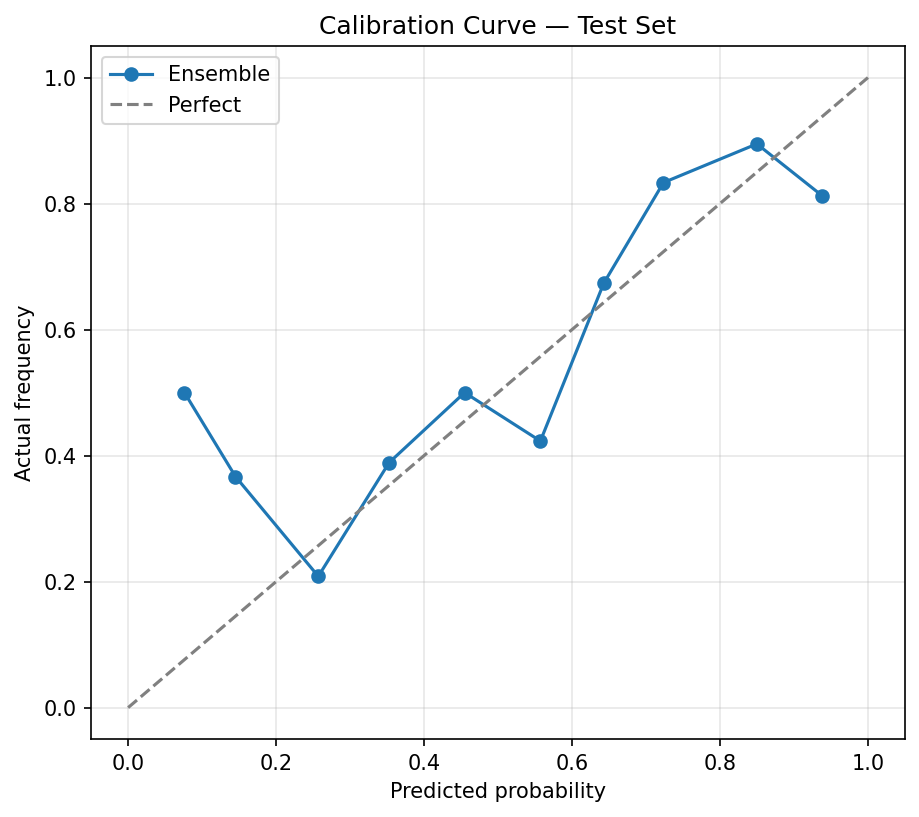
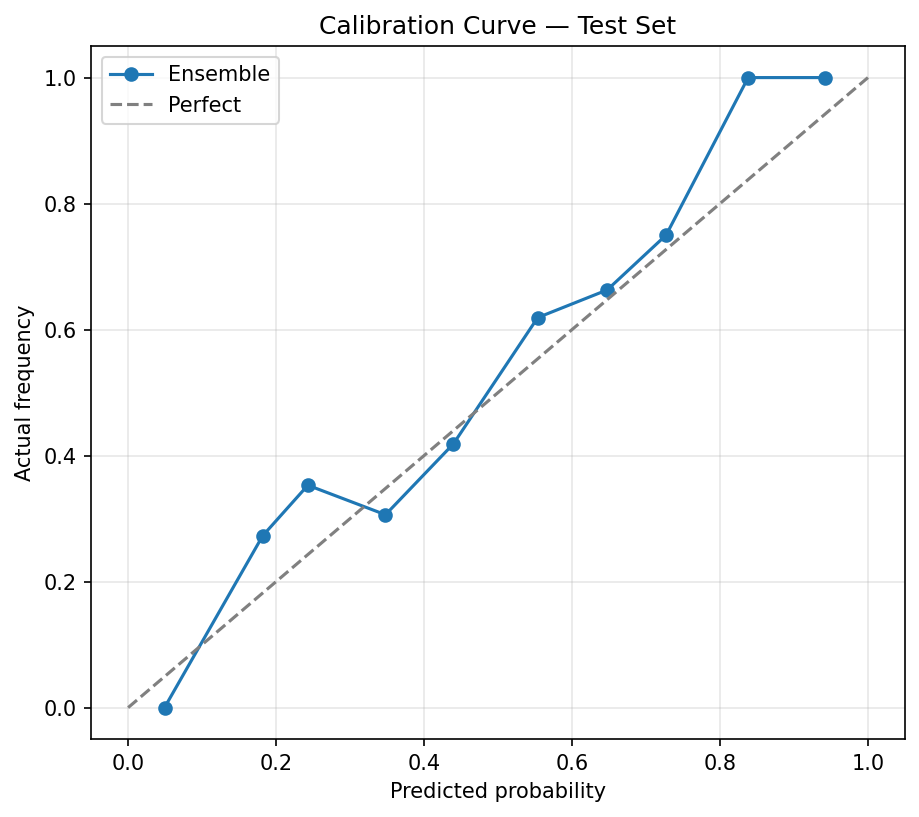
Update settings, elo state, bet tracker, and calibration curve

diff --git a/config/settings.py b/config/settings.py
@@ -33,12 +33,12 @@ def _get_current_season() -> str:
     return str(d.year - 1)
 
 CURRENT_SEASON   = _get_current_season()
-VALID_SEASON     = "2023"  # Now training on 8 seasons (2015-2022)
-TEST_SEASON      = "2024"
+VALID_SEASON     = "2025"  # Now training on 8 seasons (2015-2022)
+TEST_SEASON      = "2025"
 TEST_SEASON_2    = "2025"
 
 SEASONS      = ["2015", "2016", "2017", "2018", "2019", "2020", "2021", "2022", "2023", "2024", "2025"]
-BACKTEST_SEASONS = ["2024", "2025"]
+BACKTEST_SEASONS = ["2025"]
 SEASON_TYPES = ['Regular Season']
 
 
@@ -102,7 +102,7 @@ MIN_EDGE_PCT       = 12.0
 BET_MAX_EDGE       = 60.0
 BET_MIN_ODDS       = 105
 BET_MAX_ODDS       = 300
-BET_UNDERDOGS_ONLY = False  
+BET_UNDERDOGS_ONLY = False
 BET_AWAY_ONLY      = False
 
 KELLY_FRACTION     = 0.25